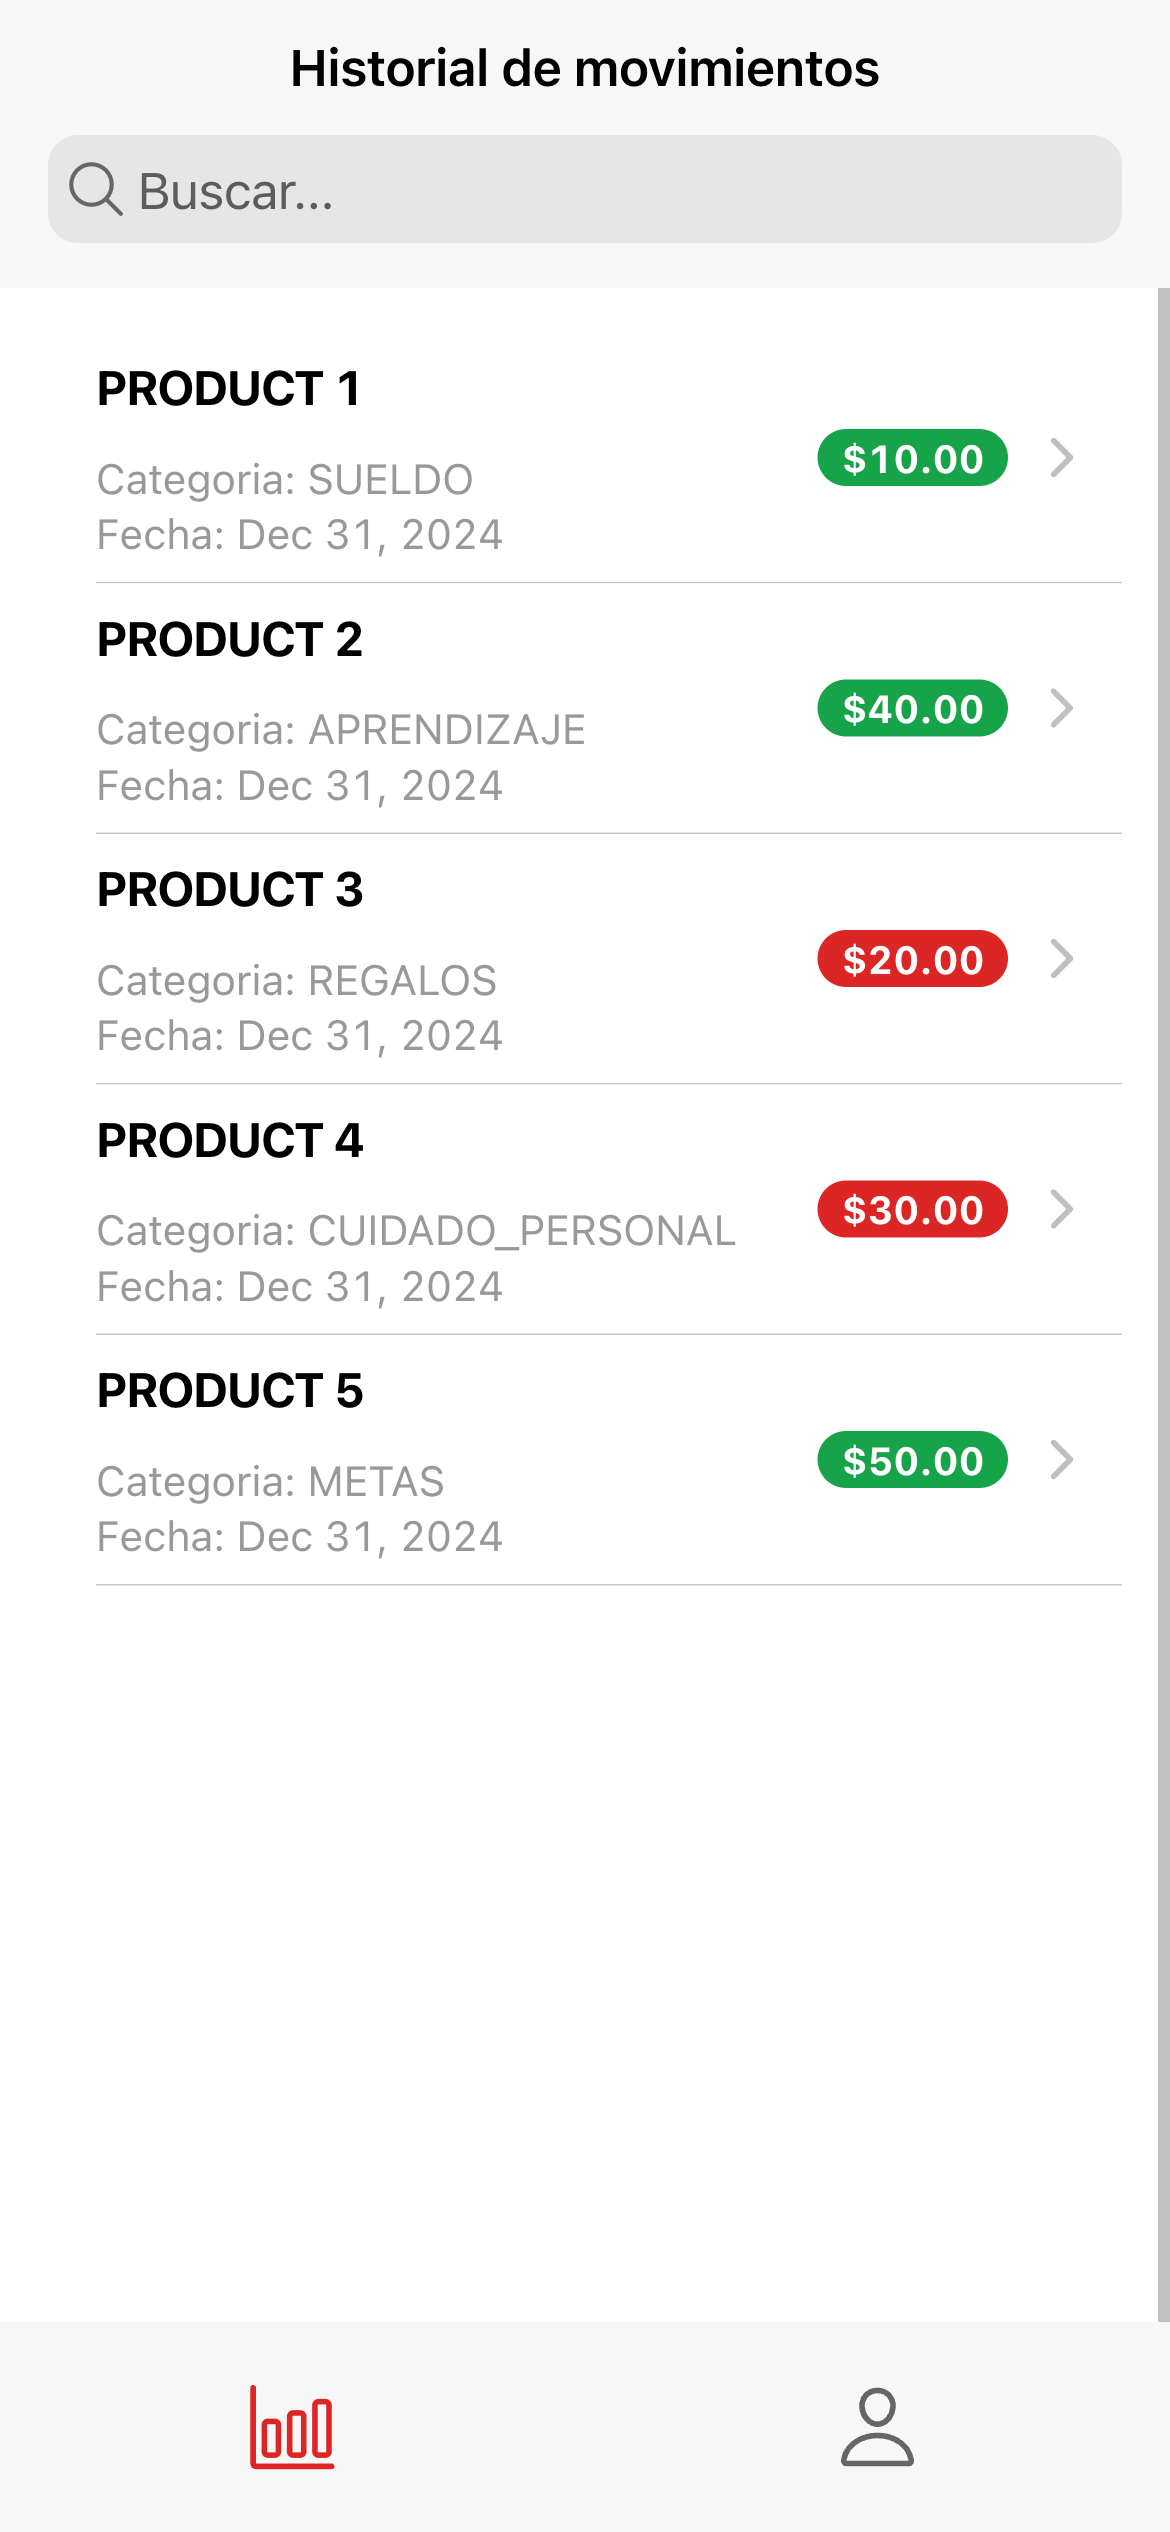
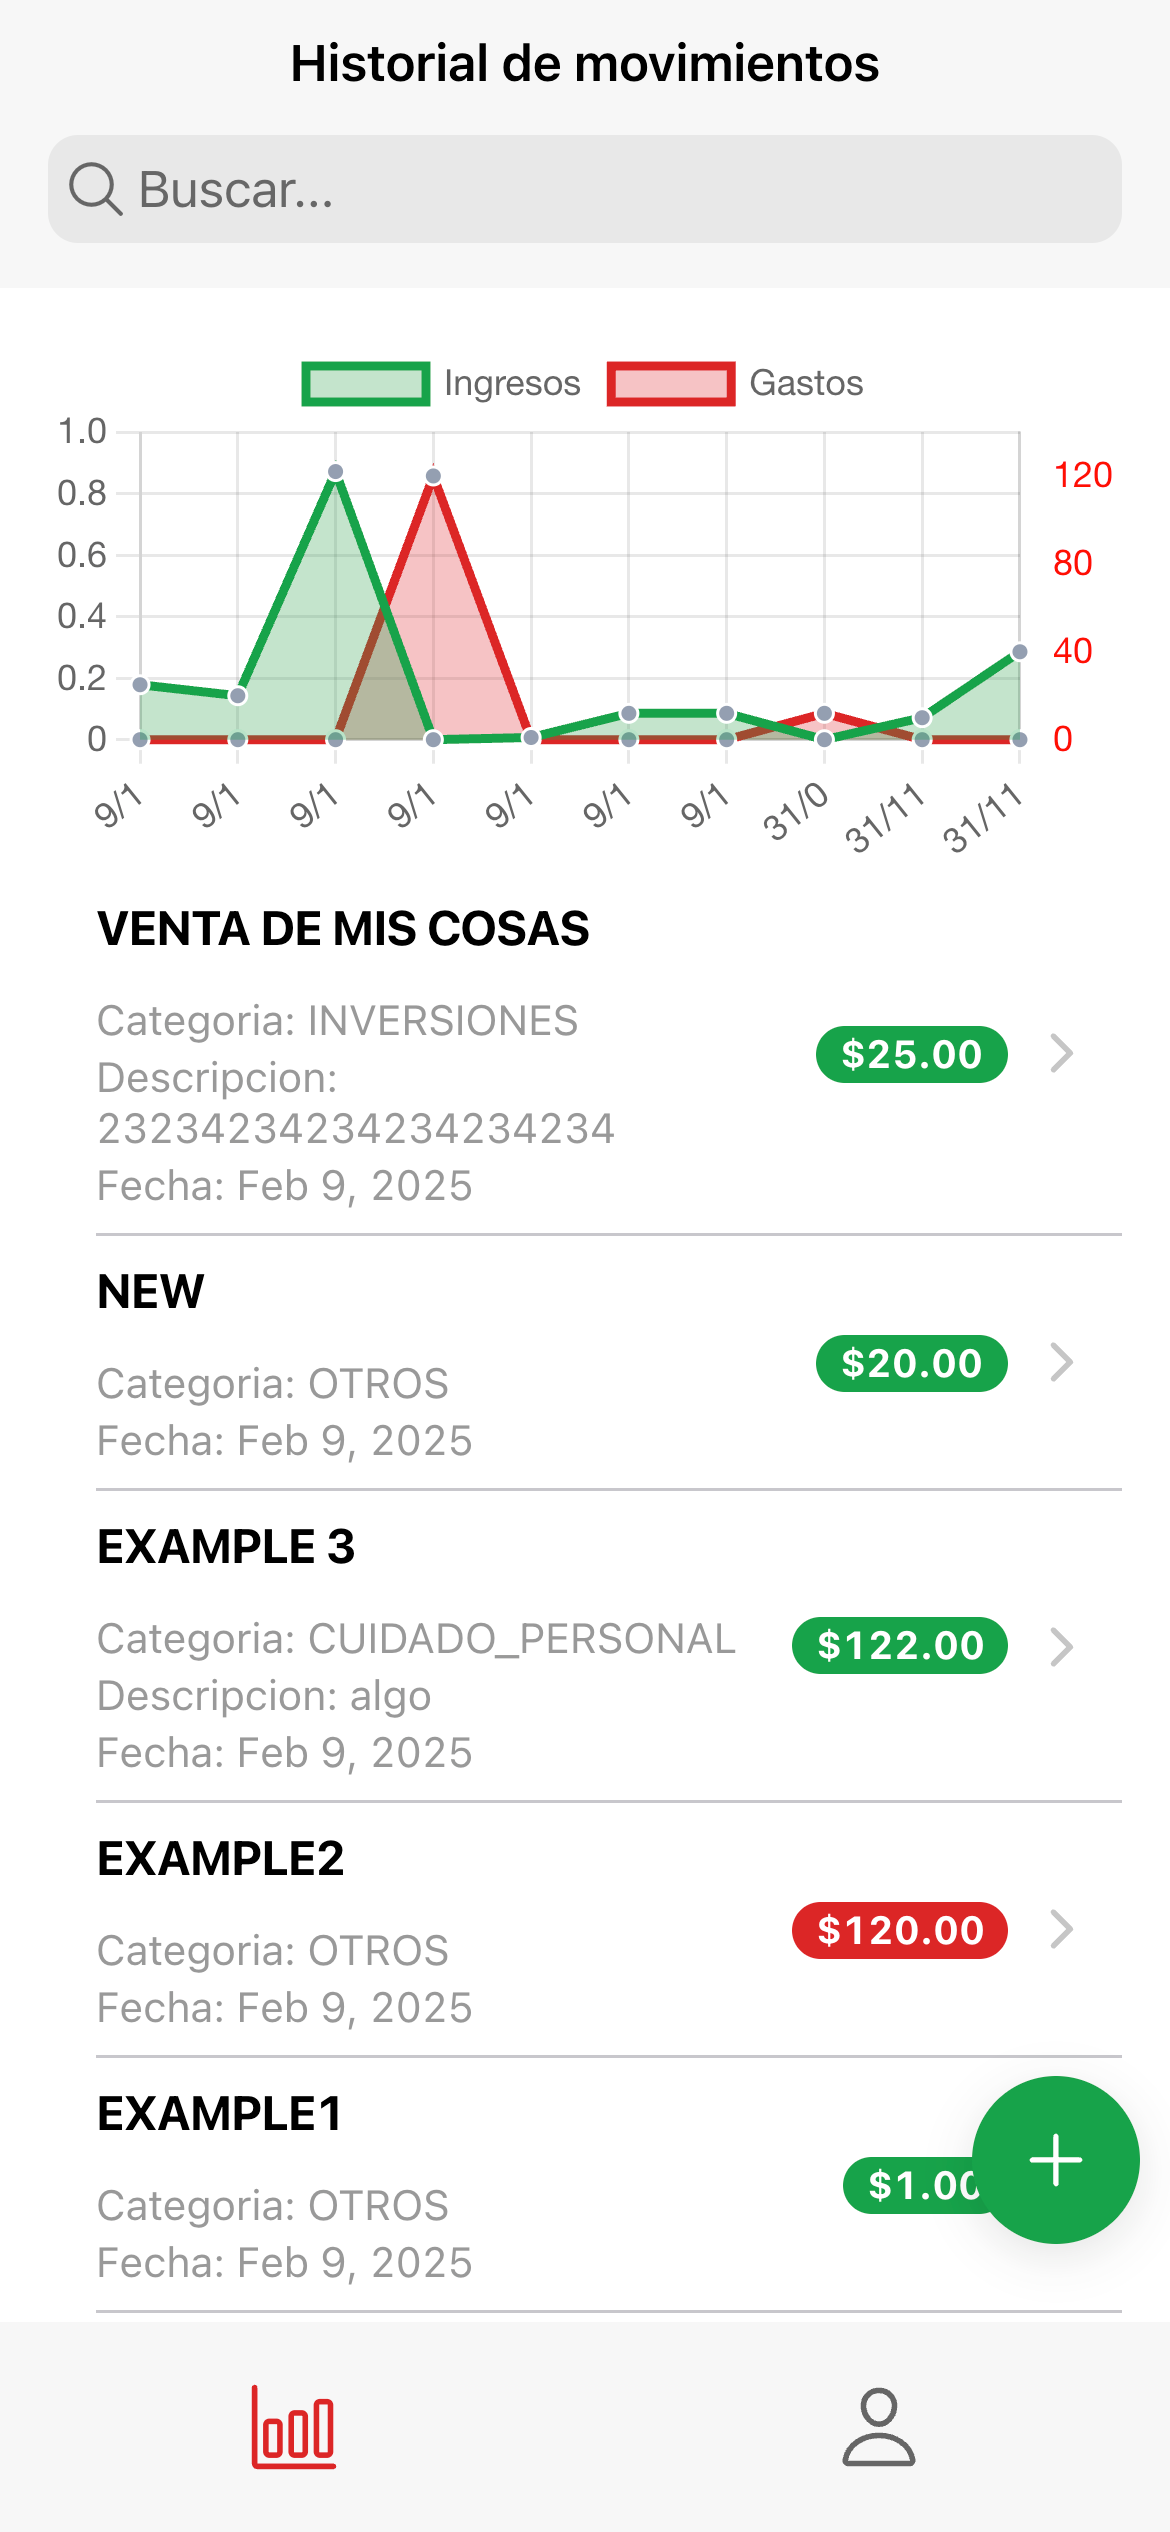
feat: :art: allow user to edit and see graph

diff --git a/frontend/src/app/pages/dashboard/tab1.page.ts b/frontend/src/app/pages/dashboard/tab1.page.ts
@@ -29,63 +29,42 @@ export class Tab1Page implements OnInit, OnDestroy {
     Chart.register(Annotation);
   }
 
-  ngOnInit(): void {
-    this.subscription$ = this.orderService.getOrders().subscribe(response => {
-      this.historyWorkout = response?.movements || [];
-    });
-  }
-
-  ngOnDestroy(): void {
-    this.subscription$?.unsubscribe();
-    this.historyWorkout = [];
-  }
-
   public lineChartData: ChartConfiguration['data'] = {
     datasets: [
-      {
-        data: [65, 59, 80, 81, 56, 55, 40],
-        label: 'Series A',
-        backgroundColor: 'rgba(148,159,177,0.2)',
-        borderColor: 'rgba(148,159,177,1)',
-        pointBackgroundColor: 'rgba(148,159,177,1)',
-        pointBorderColor: '#fff',
-        pointHoverBackgroundColor: '#fff',
-        pointHoverBorderColor: 'rgba(148,159,177,0.8)',
-        fill: 'origin',
-      },
-      {
-        data: [28, 48, 40, 19, 86, 27, 90],
-        label: 'Series B',
-        backgroundColor: 'rgba(77,83,96,0.2)',
-        borderColor: 'rgba(77,83,96,1)',
-        pointBackgroundColor: 'rgba(77,83,96,1)',
-        pointBorderColor: '#fff',
-        pointHoverBackgroundColor: '#fff',
-        pointHoverBorderColor: 'rgba(77,83,96,1)',
-        fill: 'origin',
-      },
-      {
-        data: [180, 480, 770, 90, 1000, 270, 400],
-        label: 'Series C',
-        yAxisID: 'y1',
-        backgroundColor: 'rgba(255,0,0,0.3)',
-        borderColor: 'red',
-        pointBackgroundColor: 'rgba(148,159,177,1)',
-        pointBorderColor: '#fff',
-        pointHoverBackgroundColor: '#fff',
-        pointHoverBorderColor: 'rgba(148,159,177,0.8)',
-        fill: 'origin',
-      },
+        {
+          data: [65, 59, 80, 81, 56, 55, 40],
+          label: 'Ingresos',
+          yAxisID: 'y1',
+          backgroundColor: 'rgba(22,163,74,0.3)',
+          borderColor: '#16a34a',
+          pointBackgroundColor: 'rgba(148,159,177,1)',
+          pointBorderColor: '#fff',
+          pointHoverBackgroundColor: '#fff',
+          pointHoverBorderColor: 'rgba(148,159,177,0.8)',
+          fill: 'origin',
+        },
+        {
+          data: [180, 480, 770, 90, 1000, 270, 400],
+          label: 'Gastos',
+          yAxisID: 'y1',
+          backgroundColor: 'rgba(220,38,38,0.3)',
+          borderColor: '#dc2626',
+          pointBackgroundColor: 'rgba(148,159,177,1)',
+          pointBorderColor: '#fff',
+          pointHoverBackgroundColor: '#fff',
+          pointHoverBorderColor: 'rgba(148,159,177,0.8)',
+          fill: 'origin',
+        },          
     ],
     labels: ['January', 'February', 'March', 'April', 'May', 'June', 'July'],
   };
 
   public lineChartOptions: ChartConfiguration['options'] = {
-    elements: {
-      line: {
-        tension: 0.5,
-      },
-    },
+    // elements: {
+    //   line: {
+    //     tension: 0.5,
+    //   },
+    // },
     scales: {
       // We use this empty structure as a placeholder for dynamic theming.
       y: {
@@ -94,7 +73,7 @@ export class Tab1Page implements OnInit, OnDestroy {
       y1: {
         position: 'right',
         grid: {
-          color: 'rgba(255,0,0,0.3)',
+          color: 'rgba(0,0,0,0)',
         },
         ticks: {
           color: 'red',
@@ -102,34 +81,55 @@ export class Tab1Page implements OnInit, OnDestroy {
       },
     },
 
-    plugins: {
-      legend: { display: true },
-      annotation: {
-        annotations: [
-          {
-            type: 'line',
-            scaleID: 'x',
-            value: 'March',
-            borderColor: 'orange',
-            borderWidth: 2,
-            label: {
-              display: true,
-              position: 'center',
-              color: 'orange',
-              content: 'LineAnno',
-              font: {
-                weight: 'bold',
-              },
-            },
-          },
-        ],
-      },
-    },
+    // plugins: {
+    //   legend: { display: true },
+    //   annotation: {
+    //     annotations: [
+    //       {
+    //         type: 'line',
+    //         scaleID: 'x',
+    //         value: 'March',
+    //         borderColor: 'orange',
+    //         borderWidth: 2,
+    //         label: {
+    //           display: true,
+    //           position: 'center',
+    //           color: 'orange',
+    //           content: 'LineAnno',
+    //           font: {
+    //             weight: 'bold',
+    //           },
+    //         },
+    //       },
+    //     ],
+    //   },
+    // },
   };
 
   public lineChartType: ChartType = 'line';
 
   @ViewChild(BaseChartDirective) chart?: BaseChartDirective;
+
+  ngOnInit(): void {
+    this.subscription$ = this.orderService.getOrders().subscribe(response => {
+      this.historyWorkout = response?.movements || [];
+      //asign the response type to the lineChartData.datasets object data depending on the income value (income to [0], outcome to [1])
+      this.lineChartData.datasets[0].data = this.historyWorkout.map(item => item.income ? item.quantity : 0);
+      this.lineChartData.datasets[1].data = this.historyWorkout.map(item => !item.income ? item.quantity : 0);
+      //assign this.lineChartData.labels = this.historyWorkout.map(item => item.date);  with a date short format like 'dd/MM'
+      this.lineChartData.labels = this.historyWorkout.map(item =>{
+        const date = new Date(item.date);
+        return `${date.getDate()}/${date.getMonth()}`;
+      });
+
+    });
+  }
+
+  ngOnDestroy(): void {
+    this.subscription$?.unsubscribe();
+    this.historyWorkout = [];
+  }
+
 
   private static generateNumber(i: number): number {
     return Math.floor(Math.random() * (i < 2 ? 100 : 1000) + 1);

diff --git a/frontend/src/app/core/components/select/select.component.ts b/frontend/src/app/core/components/select/select.component.ts
@@ -8,7 +8,7 @@ import { ISelectItem } from '../../models/iselect.item';
   styleUrls: ['./select.component.scss'],
 })
 export class SelectComponent implements OnInit {
-  private _defaultValue!: string;
+  @Input() defaultValue!: string;
   @Input() id!: string;
   @Input() label!: string;
 
@@ -27,19 +27,12 @@ export class SelectComponent implements OnInit {
   constructor() {}
 
   ngOnInit() {
-    this.defaultValue = this.dataSource?.find((item) => item?.selected)?.value || '';
-  }
-
-  get defaultValue() {
-    return this._defaultValue;  
-  }
-
-  set defaultValue(value: any) {
-    console.log('value', value);
-    //this._defaultValue = value;
+    this.dataSource = this.dataSource || [];
+    this.dataSource = this.dataSource.map((item) => { return { ...item, selected: item.value === this.defaultValue } });
   }
 
   handleChange(event: any) {
+    this.dataSource = this.dataSource.map((item) => { return { ...item, selected: item.value === this.defaultValue } });
     this.inputValueChange.emit(event.detail.value);
   }
 
@@ -52,6 +45,8 @@ export class SelectComponent implements OnInit {
   }
 
   compareFn(e1: ISelectItem, e2: ISelectItem): boolean {
-    return e1 && e2 ? e1.value == e2.value : e1 == e2;
+    //avoid mark as selected all the items
+    return e1.name === e2.name;
   }
+
 }

diff --git a/frontend/src/app/pages/dashboard/detail/detail.component.ts b/frontend/src/app/pages/dashboard/detail/detail.component.ts
@@ -113,7 +113,7 @@ export class DetailComponent implements OnDestroy, OnInit {
 
     console.log(product);
     //determine if it is a post or put by the existence of the product id
-    this.subscription$ = (product.id  ? this.productService.putProduct(String(this.productService.product?.id), product) : this.productService.postProduct(product))
+    this.subscription$ = (this.productService.product?.id ? this.productService.putProduct(String(this.productService.product?.id), product) : this.productService.postProduct(product))
     
     //handle put or post response
     .subscribe(

diff --git a/backend/src/movements/dtos/movementFilter.dto.ts b/backend/src/movements/dtos/movementFilter.dto.ts
@@ -13,7 +13,12 @@ export class MovementsFilterDto extends FilterDto {
   @IsOptional()
   @IsDate()
   @ApiProperty({ description: 'date for movement' })
-  date: Date;
+  startDate: Date;
+
+  @IsOptional()
+  @IsDate()
+  @ApiProperty({ description: 'date for movement' })
+  endDate: Date;
 
   @IsOptional()
   @IsNumber()
@@ -24,6 +29,6 @@ export class MovementsFilterDto extends FilterDto {
   userId?: number;
 
   @IsOptional()
-  @IsBoolean()
-  income?: boolean;
+  @IsString()
+  type?: 'income' | 'expense' | 'all' = 'all';
 }

diff --git a/frontend/src/app/core/components/select/select.component.html b/frontend/src/app/core/components/select/select.component.html
@@ -25,7 +25,7 @@
         }"
         class="block w-full rounded-md border-0 shadow-sm ring-1 ring-inset ring-gray-300 placeholder:text-gray-400 focus:ring-2 focus:ring-inset focus:ring-indigo-600 sm:text-sm sm:leading-6"
       >
-        <ion-select-option *ngFor="let items of dataSource"[value]="items.value">{{items.name}}</ion-select-option>
+        <ion-select-option *ngFor="let items of dataSource" [value]="items.value" >{{items.name}}</ion-select-option>
       </ion-select>
 
     <!-- select -->

diff --git a/backend/src/movements/services/movements.service.ts b/backend/src/movements/services/movements.service.ts
@@ -26,7 +26,6 @@ export class MovementsService {
       where.name = params.name;
     }
 
-
     if (params?.categoryId) {
       where.category = { id: params.categoryId };
     }
@@ -36,6 +35,7 @@ export class MovementsService {
       take: limit,
       skip: offset,
       where,
+      order: { date: 'DESC' },
     });
 
     console.log(res);

diff --git a/backend/src/movements/controllers/movements.controller.ts b/backend/src/movements/controllers/movements.controller.ts
@@ -56,7 +56,7 @@ export class MovementsController {
   })
   @HttpCode(HttpStatus.OK)
   async getmovements(
-    @Query() params: MovementsFilterDto & FilterDto
+    @Query() params: MovementsFilterDto
     // @Query('offset') offset = 10,
   ) {
     return { movements: await this.movementsService.findAll(params) };

diff --git a/frontend/src/app/pages/dashboard/detail/detail.component.html b/frontend/src/app/pages/dashboard/detail/detail.component.html
@@ -73,6 +73,7 @@
               [id]="'select'"
               [label]="'Seleccionar categoria*'"
               [placeholder]="'Seleccionar categoria*'"
+              [defaultValue]="categoryId"
               (inputValueChange)="changeSelect($event)"></app-select>
           </ng-container>
         </div>

diff --git a/frontend/src/app/pages/dashboard/tab1.page.html b/frontend/src/app/pages/dashboard/tab1.page.html
@@ -21,7 +21,7 @@
   <div class="flex min-h-full flex-col justify-start px-4 py-4 lg:px-6">
     <div class="sm:mx-auto sm:w-full sm:max-w-sm md:max-w-md">
       <canvas
-      *ngIf="false" 
+        *ngIf="true" 
         baseChart
         class="chart"
         [data]="lineChartData"
